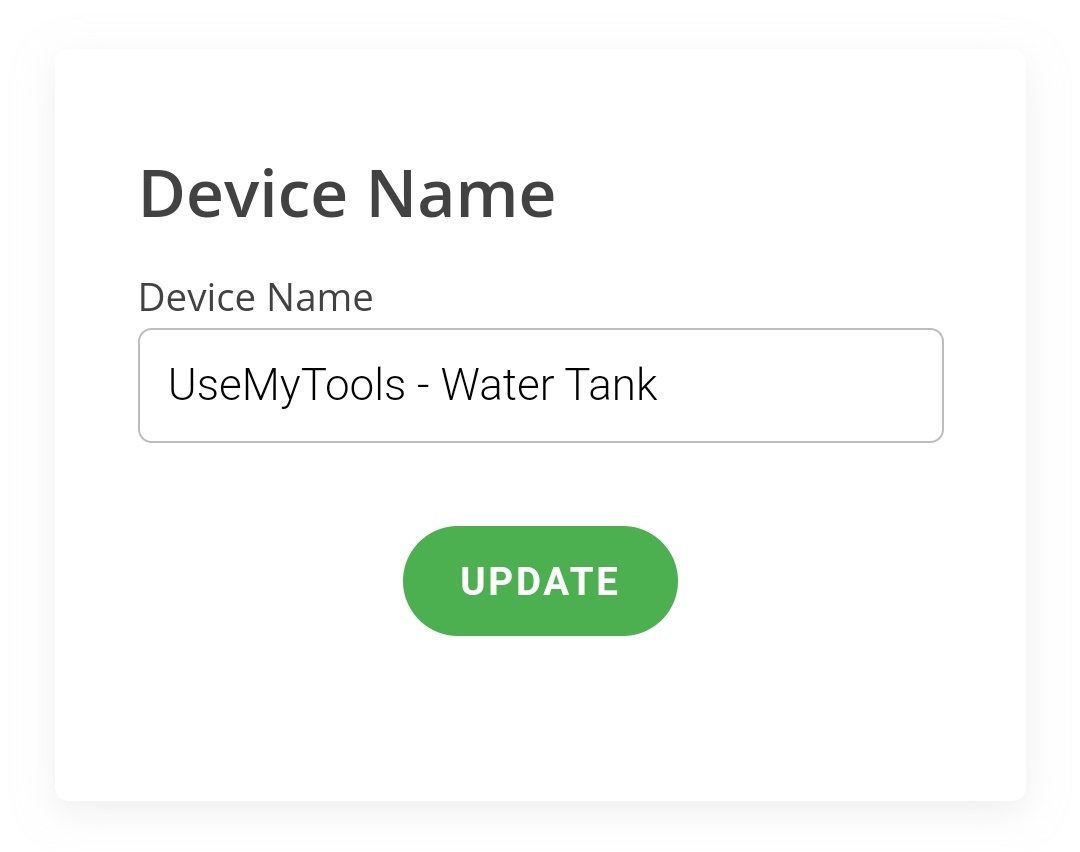
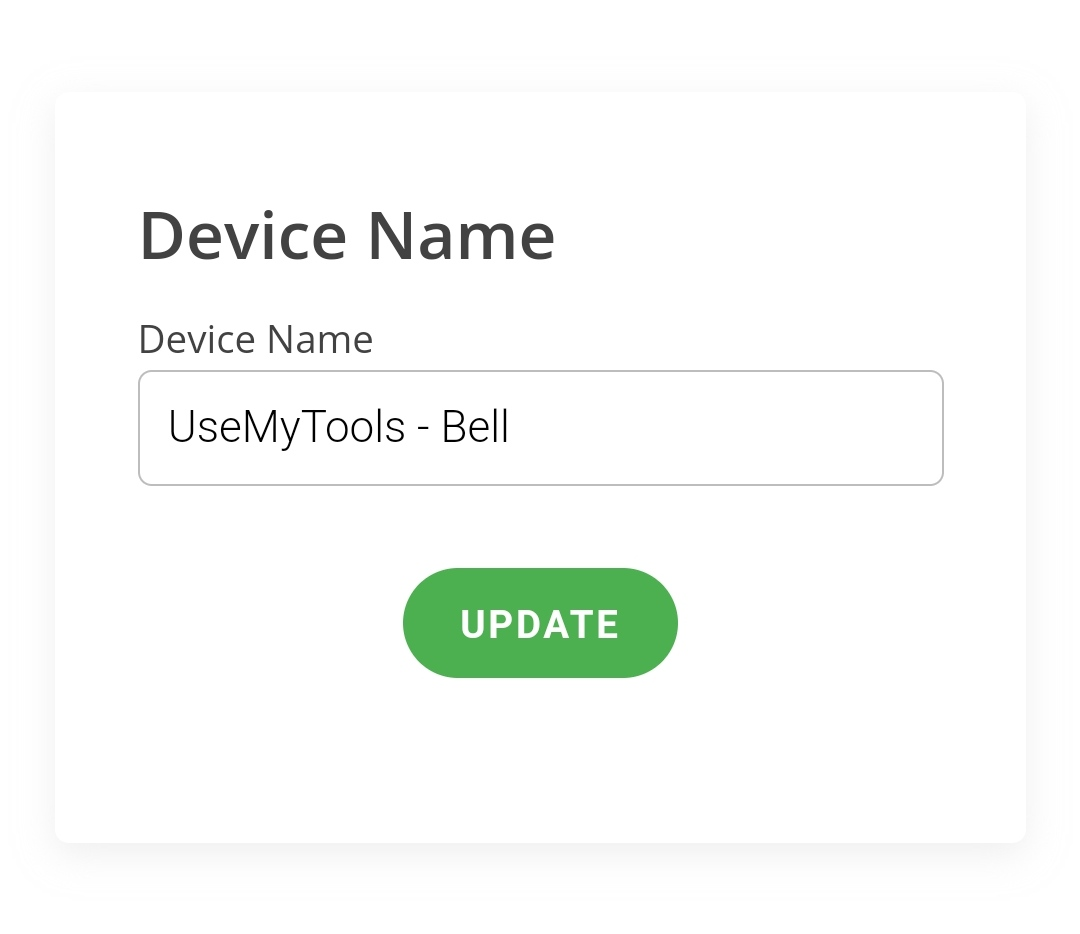
Update Docs

diff --git a/en/smart-school-bell-controller/user-guide/device-settings.md b/en/smart-school-bell-controller/user-guide/device-settings.md
@@ -103,6 +103,8 @@ This setting is used to enable/disable device wifi hotspot mode. Simply change t
 
 This settings is used to enable/disable to use device real-time clock (RTC) in wifi mode.
 
+{{< figure src="../smart-school-bell-controller-device-settings-device-rtc.jpg" >}}
+
 ---
 
 ## Device Name ##
@@ -141,10 +143,14 @@ This setting is used to enable/disable IoT (internet of things) Home Automation 
 
 This settings is used to import device timers configuration and update all the timers accordingly.
 
+{{< figure src="../smart-school-bell-controller-device-settings-device-timers-import-configuration.jpg">}}
+
 ---
 ## Export Configuration ##
 
 This settings is used to export device timers configuration.
+
+{{< figure src="../smart-school-bell-controller-device-settings-device-timers-export-configuration.jpg">}}
 
 ---
 
@@ -152,11 +158,15 @@ This settings is used to export device timers configuration.
 
 This setting is used to set Bell 1 Name.
 
+{{< figure src="../smart-school-bell-controller-device-settings-bell1-name.jpg">}}
+
 ---
 
 ## Bell 1 Press Time ##
 
 This setting is used to set the default time in second for the bell that will be pressed when ON before going back to OFF. Default is 1 second.
+
+{{< figure src="../smart-school-bell-controller-device-settings-bell1-press-time.jpg">}}
 
 ---
 
@@ -164,15 +174,21 @@ This setting is used to set the default time in second for the bell that will be
 
 This settings is used to enable/disable Bell 1 Timer 1 of the device.
 
+{{< figure src="../smart-school-bell-controller-device-settings-bell1-press-time.jpg">}}
+
 ---
 
 ### Bell 1 Timer 1 Start ###
 
 This settings is used to enable/disable Bell 1 Timer 1 of the device.
 
+{{< figure src="../smart-school-bell-controller-device-settings-bell1-start-time.jpg">}}
+
 ---
 
 ### Bell 1 Timer 1 Start Days ###
+
+{{< figure src="../smart-school-bell-controller-device-settings-bell1-timer1-start-time-days-of-weeks.jpg">}}
 
 ---
 
@@ -180,11 +196,15 @@ This settings is used to enable/disable Bell 1 Timer 1 of the device.
 
 This settings is used for Bell 1 Timer 1 to set the time duration in second for the bell that will be pressed ON before going back to OFF. Default Bell press time settings will applied if zero.
 
+{{< figure src="../smart-school-bell-controller-device-settings-bell1-timer1-press-time.jpg">}}
+
 ---
 
 ## Bell 1 Timer 14 ##
 
 This settings is used to enable/disable Bell 1 Timer 14 of the device.
+
+{{< figure src="../smart-school-bell-controller-device-settings-bell1-timer14.jpg">}}
 
 ---
 
@@ -192,9 +212,13 @@ This settings is used to enable/disable Bell 1 Timer 14 of the device.
 
 This settings is used to enable/disable Bell 1 Timer 14 of the device.
 
+{{< figure src="../smart-school-bell-controller-device-settings-bell1-timer14-start-time.jpg">}}
+
 ---
 
 ### Bell 1 Timer 14 Start Days ###
+
+{{< figure src="../smart-school-bell-controller-device-settings-bell1-timer14-start-time-days-of-weeks.jpg">}}
 
 ---
 
@@ -202,11 +226,15 @@ This settings is used to enable/disable Bell 1 Timer 14 of the device.
 
 This settings is used for Bell 1 Timer 14 to set the time duration in second for the bell that will be pressed ON before going back to OFF. Default Bell press time settings will applied if zero.
 
+{{< figure src="../smart-school-bell-controller-device-settings-bell1-timer14-press-time.jpg">}}
+
 ---
 
 ## Bell 1 Timer 28 ##
 
 This settings is used to enable/disable Bell 1 Timer 28 of the device.
+
+{{< figure src="../smart-school-bell-controller-device-settings-bell1-press-time.jpg">}}
 
 ---
 
@@ -214,14 +242,20 @@ This settings is used to enable/disable Bell 1 Timer 28 of the device.
 
 This settings is used to enable/disable Bell 1 Timer 28 of the device.
 
+{{< figure src="../smart-school-bell-controller-device-settings-bell1-timer28.jpg">}}
+
 ---
 
 ### Bell 1 Timer 28 Start Days ###
+
+{{< figure src="../smart-school-bell-controller-device-settings-bell1-timer28-start-time-days-of-weeks.jpg">}}
 
 ---
 
 ### Bell 1 Timer 28 Press Time ###
 
 This settings is used for Bell 1 Timer 28 to set the time duration in second for the bell that will be pressed ON before going back to OFF. Default Bell press time settings will applied if zero.
+
+{{< figure src="../smart-school-bell-controller-device-settings-bell1-timer28-press-time.jpg">}}
 
 ---
